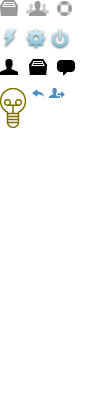
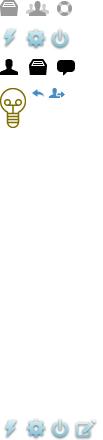
fixes

diff --git a/public/css/main.css b/public/css/main.css
@@ -164,6 +164,9 @@ header .user-options a.notifications b {
   font-weight: bold;
   text-decoration: none;
 }
+header .user-options a.compose i {
+  background: url("../../images/images.png") no-repeat -74px -418px;
+}
 header .user-options a.options i {
   background: url("../../images/images.png") no-repeat -27px -27px;
 }
@@ -673,7 +676,8 @@ body.profile-page .activity-list .triangle {
 }
 .compose-modal input.compose-title {
   font-size: 26px;
-  line-height: 20px;
+  padding: 0;
+  height: 27px;
   font-weight: bold;
   color: #333;
 }
@@ -718,6 +722,15 @@ body.profile-page .activity-list .triangle {
 }
 textarea {
   resize: none;
+  color: #333;
+}
+input::-webkit-input-placeholder {
+  color: #333;
+  padding-top: 4px;
+}
+input::-moz-placeholder,
+textarea::-webkit-input-placeholder {
+  color: #333;
 }
 a.sb {
   $border_radius: 4px;

diff --git a/public/js/site.js b/public/js/site.js
@@ -20,4 +20,6 @@ $(document).ready(function(){
 	$('.expand').autosize();
 
 	$('form.compose-modal-inner').sisyphus({timeout: 1, autoRelease: true});
+
+	$('.tt').tooltip();
 });
